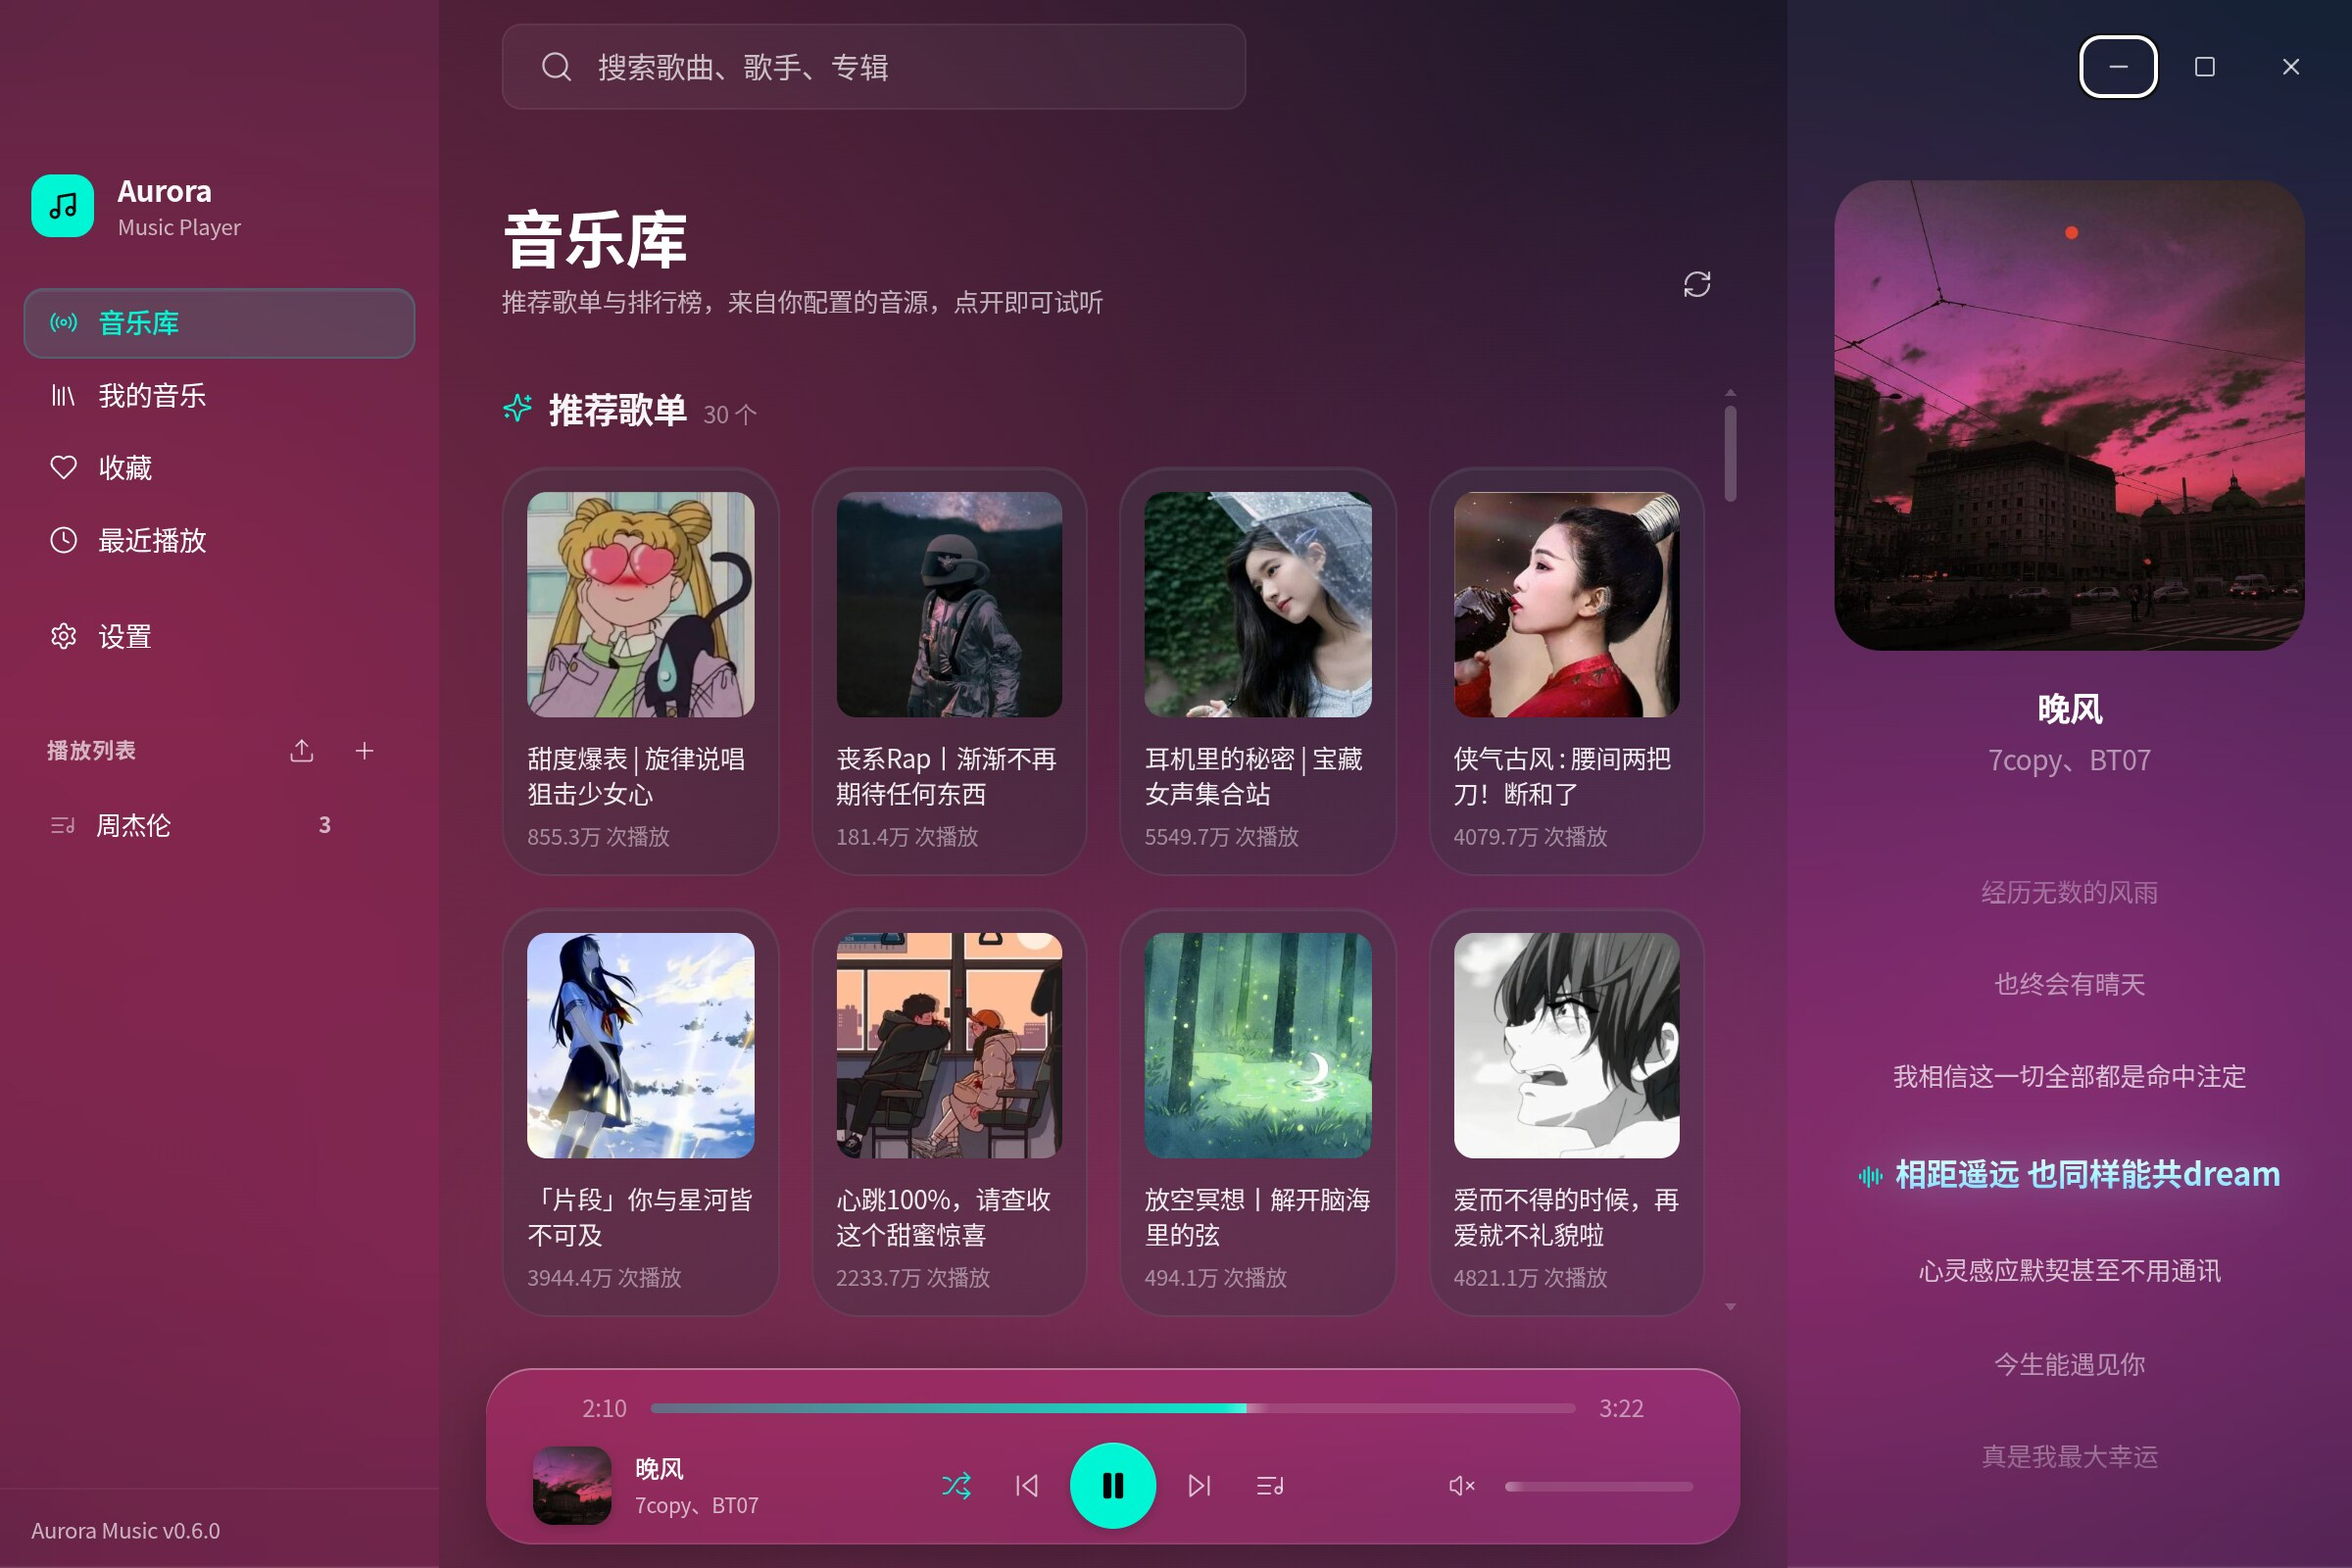
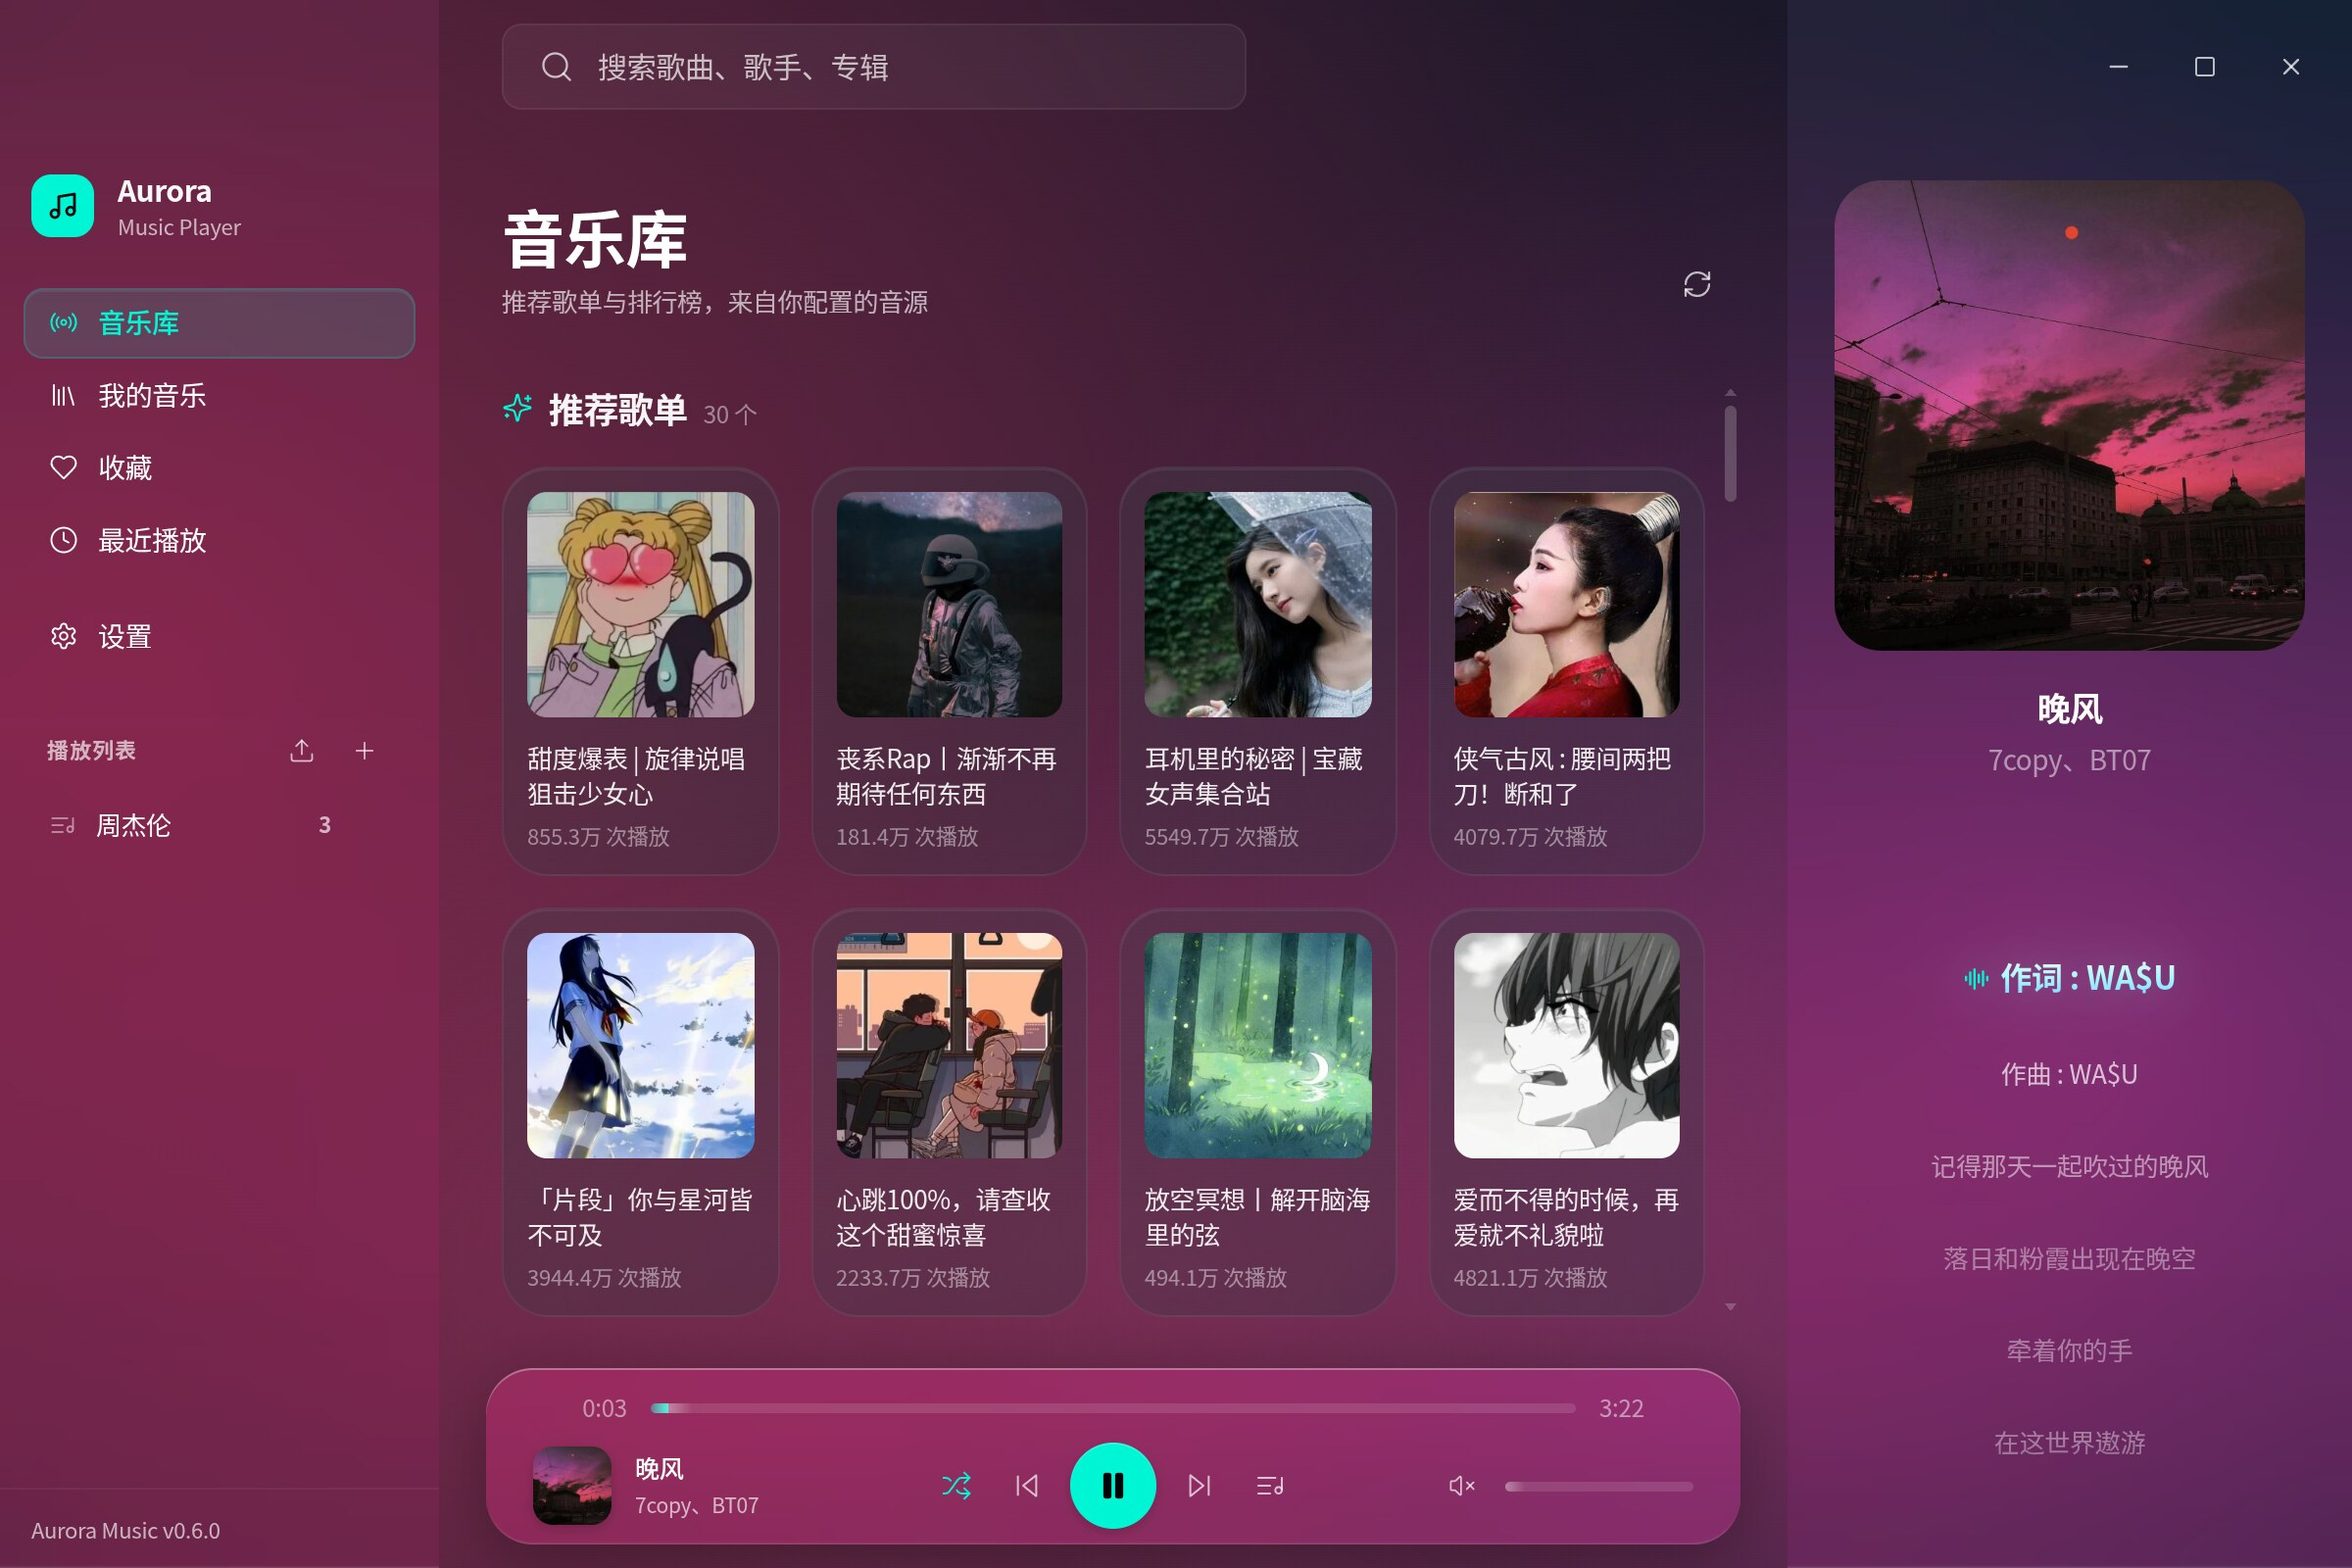
style(hall): 音乐库副标题收短，去掉「点开即可试听」
原句 25 字在手机宽 390 下一行放不下、折成两行占掉标题块整行；压到 17 字
「推荐歌单与排行榜，来自你配置的音源」后手机与桌面均单行显示。
内容说明与来源是副标题的必要信息，使用提示交给内容区自己表达。

README 主图 screenshots/hall.jpg 同步重拍（1200×800 @2x）。

diff --git a/packages/app/src/pages/MusicHallPage.tsx b/packages/app/src/pages/MusicHallPage.tsx
@@ -46,7 +46,7 @@ export function MusicHallPage() {
         <div className="flex items-end justify-between gap-4 mb-6 md:mb-8">
           <div className="min-w-0">
             <PageTitle>{HALL_LABEL}</PageTitle>
-            <PageSubtitle>推荐歌单与排行榜，来自你配置的音源，点开即可试听</PageSubtitle>
+            <PageSubtitle>推荐歌单与排行榜，来自你配置的音源</PageSubtitle>
           </div>
           <div className="flex items-center gap-2 flex-shrink-0 pb-1 page-toolbar">
             <button
